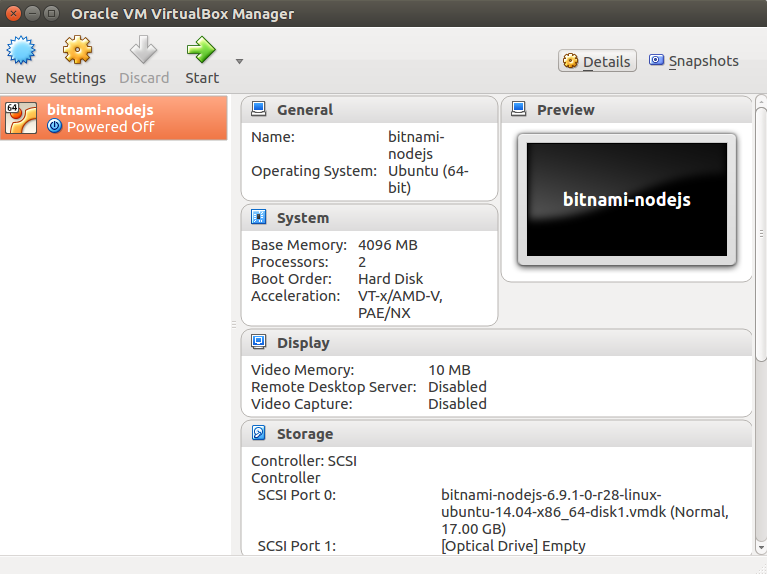
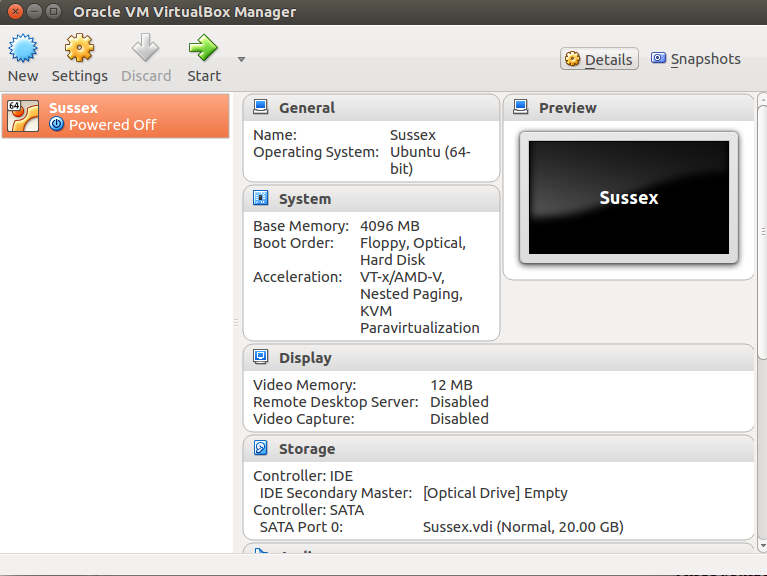
New docs

Changed region(s): [[0.0, 0.0, 1.0, 1.0], [0.7197, 0.3258, 0.8996, 0.385]]

diff --git a/docs/VBoxInstall.md b/docs/VBoxInstall.md
@@ -1,16 +1,12 @@
-# VirtualBox Currency Exchange Demonstration
+# VirtualBox Install
 
-These are the installation instructions for running the _Currency Exchange_ and _The Answer_ applications from within VirtualBox.
+These are the installation instructions for running the _The Answer_ and _Currency Exchange_ applications from within VirtualBox.
 
-These instructions assume you have access to the file `tutorials.ova`. if you do not, please email s.huckle@sussex.ac.uk.
+These instructions assume you have access to the file `Sussex.ova`. If you do not, please email s.huckle@sussex.ac.uk.
 
 ## Dependencies
 
 Download and install [VirtualBox](https://www.virtualbox.org).
-
-You will need a text editor for _The Answer_. Fyi, these instructions and the code herein were written using [Atom](https://atom.io/ "Atom"), with various linters and markdown community packages installed (see [Atom packages](https://atom.io/packages)).
-
-You will also need a browser for the demonstrations. You may need to clear its cache, so you might wish to consider using a different browser to the one you use for normal browsing. Fyi, the development tools in [Opera](http://www.opera.com/) work well.
 
 ## Important Note
 
@@ -18,7 +14,7 @@ If your mouse disappears while you are using VirtualBox, press the defined Host 
 
 ## 1. Import the VirtualBox Appliance
 
-Select the command **Import Appliance** from the VirtualBox _File_ menu. Select the file `tutorials.ova` from the USB drive supplied.
+Select the command **Import Appliance** from the VirtualBox _File_ menu. Select the file `Sussex.ova` from the USB drive supplied.
 
 ## 2. Create the Network
 
@@ -26,10 +22,10 @@ Create a `Host-only Network`. On MAC OS X, Go to `VirtualBox VM` on the main men
 
 ![vboxnet0](../images/vboxnet0.png)
 
-Edit the default vboxnet0, and turn off the DHCP Server.
+Edit the default vboxnet0, and make sure the DHCP Server is disabled.
 
 ![DHCP Server](../images/dhcpServer.png)
 
 ## 2. Installing the Demo's
 
-For the _Currency Exchange_ demo', follow the instructions in [VBoxCurrencyExchangeInstall.md](VBoxCurrencyExchangeInstall.md). For _The Answer_ demonstration, follow the instructions in [VBoxTheAnswerInstall.md](VBoxTheAnswerInstall.md).
+ For _The Answer_ demonstration, follow the instructions in [VBoxTheAnswerInstall.md](VBoxTheAnswerInstall.md). For the _Currency Exchange_ demo', follow the instructions in [VBoxCurrencyExchangeInstall.md](VBoxCurrencyExchangeInstall.md).

diff --git a/docs/VBoxTheAnswerInstall.md b/docs/VBoxTheAnswerInstall.md
@@ -6,34 +6,29 @@ It is assumed you have already followed the instructions in [VBoxInstall.md](VBo
 
 ## 1. Start the Guest OS
 
-**Start** the Guest OS `bitnami-nodejs`.
+**Start** the Guest OS `Sussex`.
 
-![Start the Guest OS](../images/vboxStart.png)
+![Start](../images/vboxStart.png)
 
-## 2. Mount the Shared Drive
+## 2. Login and Load Atom (Text Editor)
 
-Once the Guest OS has booted (you will see a login prompt), mount its shared drive to your local machine. To do so, on MAC OSX, open `Finder`, then select `Go` and `Connect to Server` and enter the value `smb://192.168.56.100/share`.
+Once the Guest OS has booted, you will see a login prompt, asking you to login to the account `sussex`:
 
-![Connect to Server](../images/macConnectToServer.png)
+![Login](../images/login.png)
 
-Hit 'Connect' and when prompted, select `Connect as Registered User`. Enter the following values:
-
-- Name: bitnami
 - Password: h3ll0w0rld
 
-The process is similar on Ubuntu 16.04, except, instead of `Finder`, use the `Nautilus` file browser, then under the `File` menu, choose `Connect to Server...` and enter `smb://192.168.56.100/share`.
+Launch `atom` from the `Application Launch Bar`:
 
-![Connect to Server](../images/connectToServer.png)
+![Atom](../images/atom.png)
 
-The `Username` and `Password` are as above, the `Domain` is `WORKGROUP`.
+Open the folder `/home/sussex/gitrepos/ExchangeCurrency`:
 
-Once you have the share from VirtualBox mounted on your local machine, you can use your favourite editor to make the necessary changes below.
+![ExchangeCurrency Directory](../images/exchangeDirectory.png)
 
 ## 3. Write the Smart Contract
 
-Change to the directory `ExchangeCurrency/src/TheAnswer`.
-
-Open the file `app/contracts/TheAnswer.sol` and edit it so it looks like this:
+Open the file `src/TheAnswer/app/contracts/TheAnswer.sol` and edit it so it looks like this:
 
     pragma solidity ^0.4.2;
 

diff --git a/docs/TheAnswerInstall.md b/docs/TheAnswerInstall.md
@@ -2,7 +2,7 @@
 
 Below are the instructions for installing _The Answer_ demonstration. They have been tested and run on Ubuntu 16.04 and MAC OS X.
 
-These instructions are separate from the Virtual Box setup; if you have been supplied a `tutorial.ova` file, then please refer to [VBoxTheAnswerInstall.md](VBoxTheAnswerInstall.md) instead.
+These instructions are separate from the Virtual Box setup; if you have been supplied a `Sussex.ova` file, then please refer to [VBoxTheAnswerInstall.md](VBoxTheAnswerInstall.md) instead.
 
 ## Overview
 
